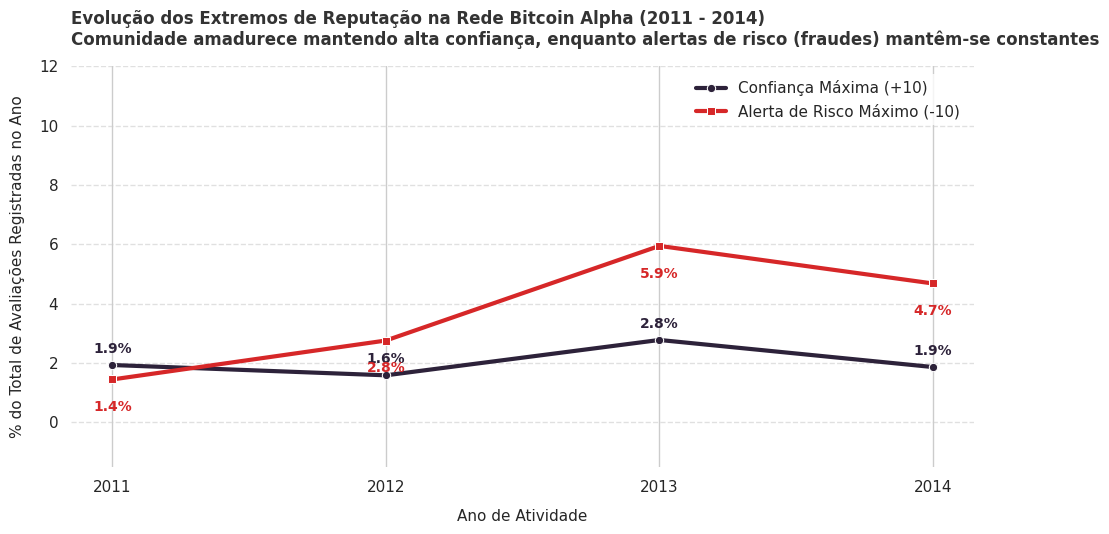
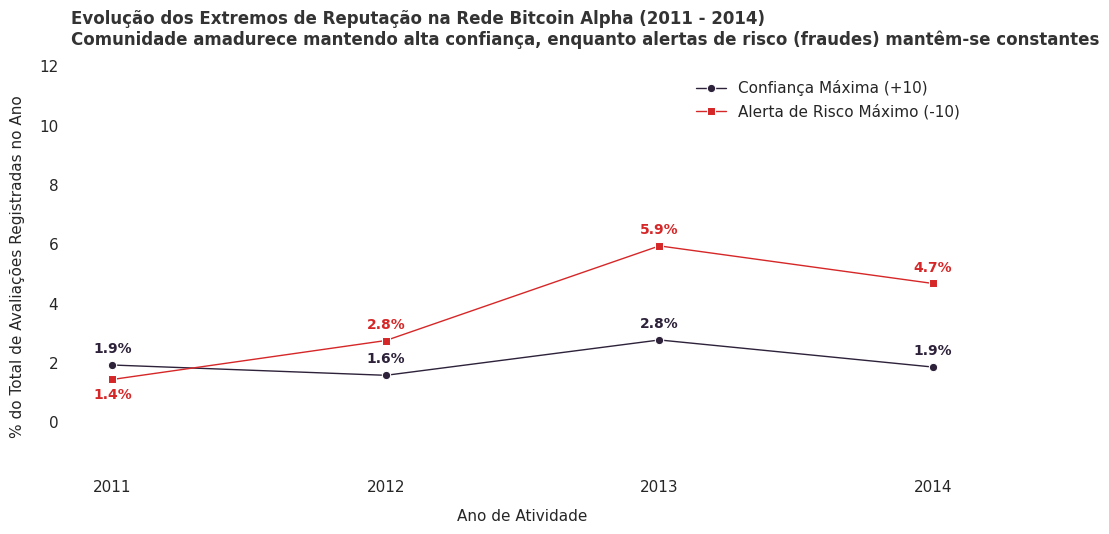
figuras explanatorias atualizadas e ajuste de rolagem no celular

diff --git a/src/web/index.html b/src/web/index.html
@@ -254,7 +254,9 @@
   /* resultados salvos */
   .grade-res{display:grid;grid-template-columns:repeat(2,minmax(0,1fr));gap:.9rem}
   .grade-res .largo{grid-column:1/-1}
-  @media (max-width:1100px){.grade-res{grid-template-columns:1fr}}
+  /* [IA] Claude Code – front/UX (celular: a tabela rola dentro do cartao, a pagina nao rola de lado) */
+  @media (max-width:1100px){.grade-res{grid-template-columns:minmax(0,1fr)}}
+  .grade-res>*{min-width:0}
   .bloco h4{margin:0 0 .2rem;font-size:1rem}
   .bloco .sub{margin:0 0 .6rem;font-size:.8rem;color:var(--txt3)}
   .rolar-x{overflow-x:auto}
@@ -268,6 +270,11 @@
 
   /* AVD */
   .avd-intro{font-size:.85rem;color:var(--txt2);margin:0}
+  /* [IA] Claude Code – front/UX (celular: caminho do notebook e nomes de arquivo quebram linha, sem rolagem lateral) */
+  .avd-intro .mono{overflow-wrap:anywhere}
+  .figura{min-width:0}
+  .figura figcaption{flex-wrap:wrap}
+  .figura figcaption small{white-space:normal;overflow-wrap:anywhere}
   .grade-avd{display:grid;grid-template-columns:repeat(2,minmax(0,1fr));gap:.9rem;align-items:start}
   .figura.larga{grid-column:1/-1}
   /* [IA] Claude Code – front/UX (secoes da aba AVD) */
